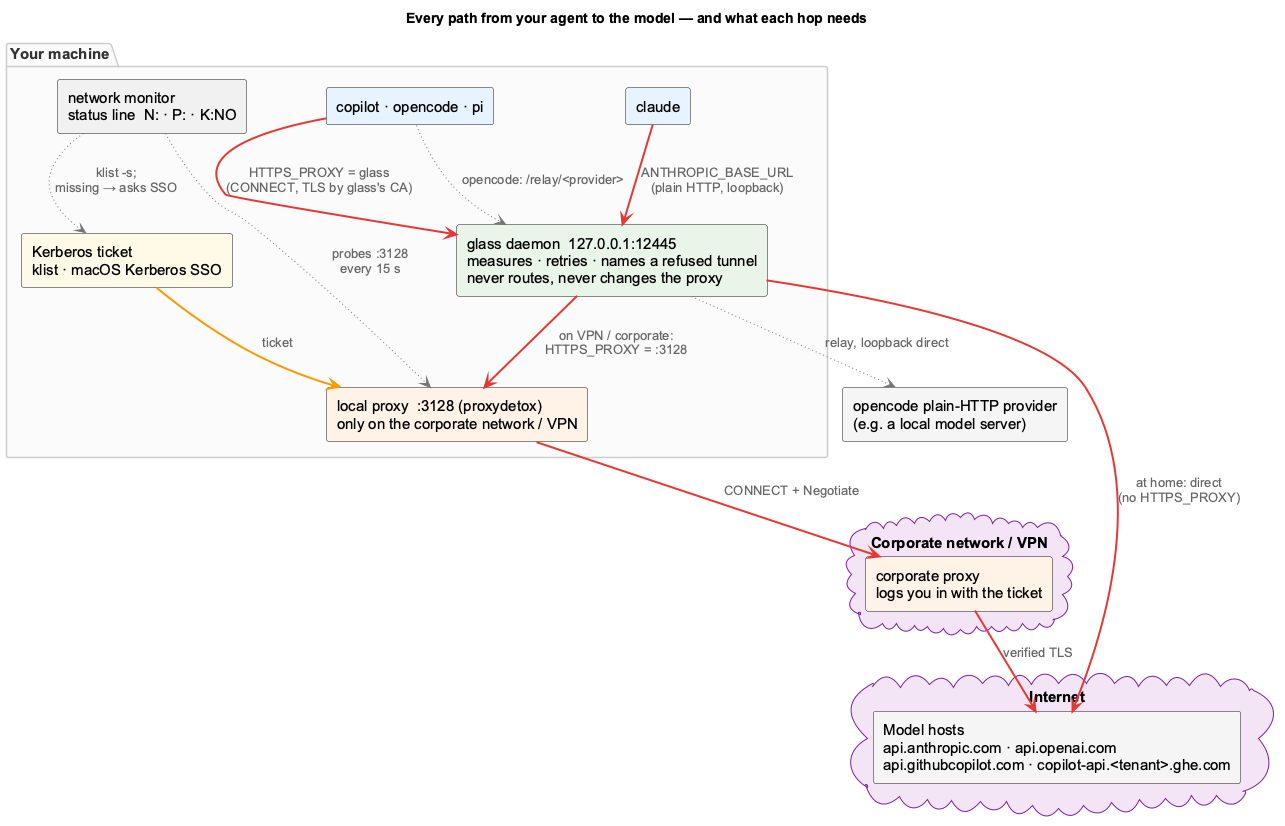
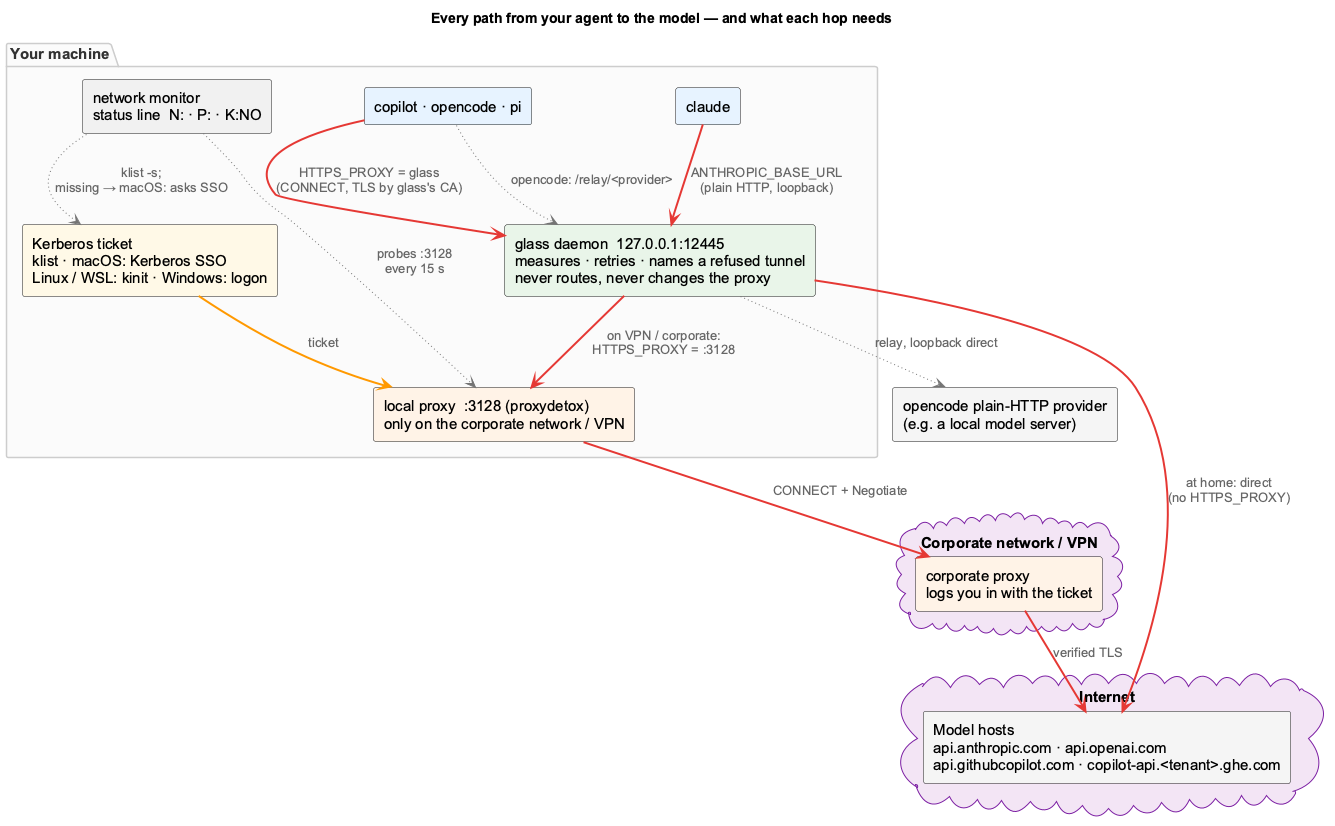
extracted from coding@ea6e0c6, rapid-llm-proxy@059fae2
Generated by coding/scripts/glass/extract.mjs from glass/manifest.yaml — do not edit by hand.

diff --git a/docs/_tiers/architecture.deep.md b/docs/_tiers/architecture.deep.md
@@ -94,9 +94,17 @@ proxy. [Connectivity](connectivity.md) is the same material as slides.
 | glass daemon `127.0.0.1:12445` | always | `glass <agent>` / `glass ui` probe `/health` (1.5 s) | started detached; if that fails, the agent runs unmeasured |
 | glass CA (`~/.glass/ca/`) | copilot, opencode, pi intercepted | the agent's TLS check | certificate error — `--no-intercept` |
 | Local proxy `:3128` | `HTTPS_PROXY` set (VPN, corporate) | network monitor: port, then a bare `CONNECT api.github.com:443`, every 15 s while a session is open | `P:OFF`; requests fail as "fetch failed" or 502 |
-| Kerberos ticket | the local proxy logs in with it | network monitor: `klist -s` | `K:NO`; the corporate proxy refuses every tunnel |
+| Kerberos ticket | the local proxy logs in with it | network monitor: `klist -s` (not on Windows) | `K:NO`; the corporate proxy refuses every tunnel |
 | Corporate proxy | VPN, corporate | egress, per request | 502 naming the proxy, the host and the status |
 | Model host | always | the forward, per request | the host's own error, passed through |
+
+The network monitor works the same on every platform; only its tools differ:
+
+| | macOS | Linux | WSL | Windows |
+|---|---|---|---|---|
+| VPN signal | Cisco `vpn state` | Cisco `vpn state` | the Windows host's `vpncli.exe`, through interop | `vpncli.exe state` |
+| Network-change events | `notifyutil` | `ip monitor` | `ip monitor` (the default NAT networking does not see the host join VPN) | none — every 15 s |
+| Kerberos ticket | `klist -s`; missing → asks the SSO extension | `klist -s`; missing → `K:NO`, run `kinit` | as Linux, with the distro's own cache | not checked; the logon renews it |
 
 The daemon starts with the proxy settings of the `glass` command that started it, and then
 follows each new session: `glass <agent>` sends its shell's `HTTPS_PROXY` / `NO_PROXY`, and when
@@ -111,7 +119,7 @@ started on VPN.
 |---|---|---|---|
 | Network error, or 502 / 503 / 504 from upstream | the forward | retried up to 3 times (0, 300, 900 ms; `LLM_PROXY_FORWARD_ATTEMPTS`), only before the first byte is written; then a 502 JSON error to the agent | `proxy-bridge/anthropic-forward.mjs` |
 | The upstream proxy refuses the tunnel | egress | the error names proxy, host and status; the same host fails at once for 10 s, so retries do not hammer the proxy; shown in the network popup | `lib/glass/egress.mjs` |
-| No Kerberos ticket on CN / VPN | network monitor | asks the macOS Kerberos SSO extension (`app-sso -a REALM -R -q`), at most every 2 minutes, without waiting; ~12 s measured, against 2 min 20 s for macOS on its own | `lib/glass/network.mjs` |
+| No Kerberos ticket on CN / VPN | network monitor | macOS: asks the Kerberos SSO extension (`app-sso -a REALM -R -q`), at most every 2 minutes, without waiting; ~12 s measured, against 2 min 20 s for macOS on its own. Linux / WSL: `K:NO` until you run `kinit`. Windows: not checked — the logon renews the ticket | `lib/glass/network.mjs` |
 | Daemon not running | the next `glass <agent>` / `glass ui` | starts it; live sessions are re-adopted from `run/sessions.json`, dead ones closed | `lib/glass/client.mjs`, `daemon.mjs` |
 | Daemon of another version | the next `glass <agent>` | replaced once it has no live session | `lib/glass/cli.mjs` |
 | A blind tunnel or an intercepted host cannot be dialled | interception | 502 to the agent, no retry | `proxy-bridge/intercept.mjs` |

diff --git a/docs/troubleshooting.md b/docs/troubleshooting.md
@@ -12,7 +12,7 @@ Start with `glass doctor`; most problems show up there.
     | No rows for copilot | `copilot --version` must be ≥ 1.0.93, and the npm CLI first on `PATH` |
     | Certificate error in an agent | Try `--no-intercept`, then send the daemon log to the maintainers |
     | No status line | Install tmux, or use Claude Code's status line / `glass watch` |
-    | "the upstream proxy … refused the tunnel to … (HTTP 502)", or `K:NO` in the status line | On the corporate network or VPN the local proxy needs a Kerberos ticket: run `klist`; if none is listed, renew it (`kinit`, or the Kerberos SSO menu). glass asks the macOS Kerberos SSO extension for a ticket as soon as it sees `K:NO` on CN / VPN, so after an overnight expiry it is usually back within ~15 s; if a login dialog appears, that is the extension asking for your password. Right after joining or leaving VPN the local proxy can also need a restart |
+    | "the upstream proxy … refused the tunnel to … (HTTP 502)", or `K:NO` in the status line | On the corporate network or VPN the local proxy needs a Kerberos ticket: run `klist`; if none is listed, renew it (`kinit`, or the Kerberos SSO menu). On macOS glass asks the Kerberos SSO extension for a ticket as soon as it sees `K:NO` on CN / VPN, so after an overnight expiry it is usually back within ~15 s; if a login dialog appears, that is the extension asking for your password. On Linux and WSL run `kinit` (WSL has its own ticket cache, apart from Windows'); on Windows the logon renews it. Right after joining or leaving VPN the local proxy can also need a restart |
     | Calls fail on VPN although `P:` and `K:` look fine, or work at home only | The daemon uses the proxy settings of the newest `glass <agent>` shell (`glass report net` shows its egress). Start the agent from a shell that has the proxy settings of the network you are on |
     | `glass doctor` warns about another local proxy | Start glass from a plain terminal; for pi add `--model <provider>/<model>` with one of pi's own providers (opencode is relayed and measured) — see *glass next to another local LLM proxy* |
 

diff --git a/docs/connectivity.md b/docs/connectivity.md
@@ -124,7 +124,8 @@ answer is never sent twice.
 A **refused tunnel** fails with an error that names the proxy, the host and
 the status, and is not retried against the same proxy for 10 s.
 
-A **missing ticket** on VPN is requested from macOS at once.
+A **missing ticket** on VPN is requested from macOS's Kerberos SSO at once;
+on Linux and WSL, `K:NO` asks you to run `kinit`.
 
 A **missing daemon** is started by the next `glass` command. If it cannot be,
 your agent runs unmeasured: glass never blocks your work.
